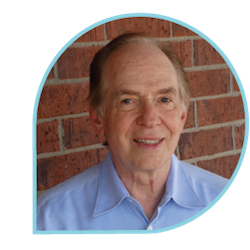
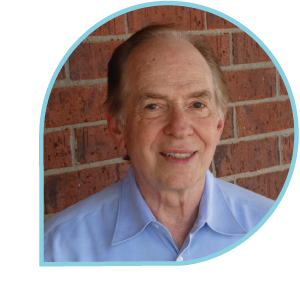
Updates photos and layout to approach final

diff --git a/_posts/2000-01-02-snapshot.md b/_posts/2000-01-02-snapshot.md
@@ -7,7 +7,7 @@ fa-icon: camera-retro
 
 #### Basically
 
-# 2014 was a fantastic year
+# 2014 - 2015 was a fantastic year
 
 <div class="grid-items-lines scrollme">
 
@@ -76,7 +76,7 @@ fa-icon: camera-retro
         data-rotatez="90">
   	    <section class="second">
   	   		<h3>243</h3>
-  	   		<p>combined staff years spent teaching art education</p>
+  	   		<p>number of combined years Blackbird faculty have in teaching experience</p>
   	   	</section>
    	    <section class="first">
    		    <span class="fa-stack subtlecircle" style="font-size:65px; background:rgba(25,25,25,0.25)">
@@ -95,7 +95,7 @@ fa-icon: camera-retro
         data-rotatez="90">
   	    <section class="second">
     		<h3>66</h3>
-    		<p>total donors with gifts ranging from $50 to $60,000. Before the close of the 2014-2015 fiscal year, we have met our fundraising and donation goals</p>
+    		<p>total donors with gifts ranging from $50 to $60,000.</p>
     	</section>
   	    <section class="first">
   		    <span class="fa-stack subtlecircle" style="font-size:65px; background:rgba(25,25,25,0.25)">

diff --git a/_posts/2000-01-03-scholarships.md b/_posts/2000-01-03-scholarships.md
@@ -11,9 +11,9 @@ fa-icon: trophy
 
 <ul>
 <li>That’s a lot of families who have no money for extracurricular activities, including the arts.</li>
-<li>The good news? Blackbird is working to help these families</li>
-<li>by providing partial and full scholarships.</li>
-<li>We have given away over $130,000 in scholarships since 2009. 36 students received scholarships for 2014-15.</li>
+<li>The good news? Blackbird is working to help these families by providing partial and full scholarships.</li>
+<li>We have given away over $130,000 in scholarships since 2009.</li>
+<li>36 students received scholarships in 2014-15. Now help us give even more!</li>
 </ul>
 
 </section>

diff --git a/_posts/2000-01-05-board.md b/_posts/2000-01-05-board.md
@@ -1,5 +1,5 @@
 ---
-title: "board"
+title: "staff"
 bg: purple
 color: white
 fa-icon: life-ring
@@ -7,7 +7,7 @@ fa-icon: life-ring
 
 <section class="first">
 	
-<h2>The family grew a little bigger in 2014</h2>
+<h2>The family grew a little bigger in 2014-15</h2>
 
 <ul>
 	<li>In Spring 2015 we hired our first part-time Artistic Director, Travis Sellers.</li>
@@ -20,6 +20,7 @@ fa-icon: life-ring
 
 </section>
 <section class="second">
+	<h2>Our Board of Directors</h2>
 	<section class="one-third">
 		<img src="/img/staff/allison-vetter.png">
 	</section>

diff --git a/_posts/2000-01-04-success.md b/_posts/2000-01-04-success.md
@@ -62,11 +62,7 @@ fa-icon: star
 
 
 <div class="scrollme">
-	<div class="slider-nav animateme" data-from="0.2"
-        opacity="1.0"
-        data-to="0"
-        data-opacity="0"
-        data-translatex="800">
+	<div class="slider-nav">
 	<div><i class="fa fa-star-half-o fa-4x"></i></div>
 	<div><i class="fa fa-paint-brush fa-4x"></i></div>
 	<div><i class="fa fa-graduation-cap fa-4x"></i></div>

diff --git a/_posts/2000-01-01-intro.md b/_posts/2000-01-01-intro.md
@@ -12,7 +12,7 @@ style: center
 
 ### *it takes a village*
 
-# Being that Village in 2014
+# Being that Village in 2014-2015
 
 For twelve months, we changed, shaped, and encouraged young artists to pursue their passions. <br> The results speak for themselves
 
